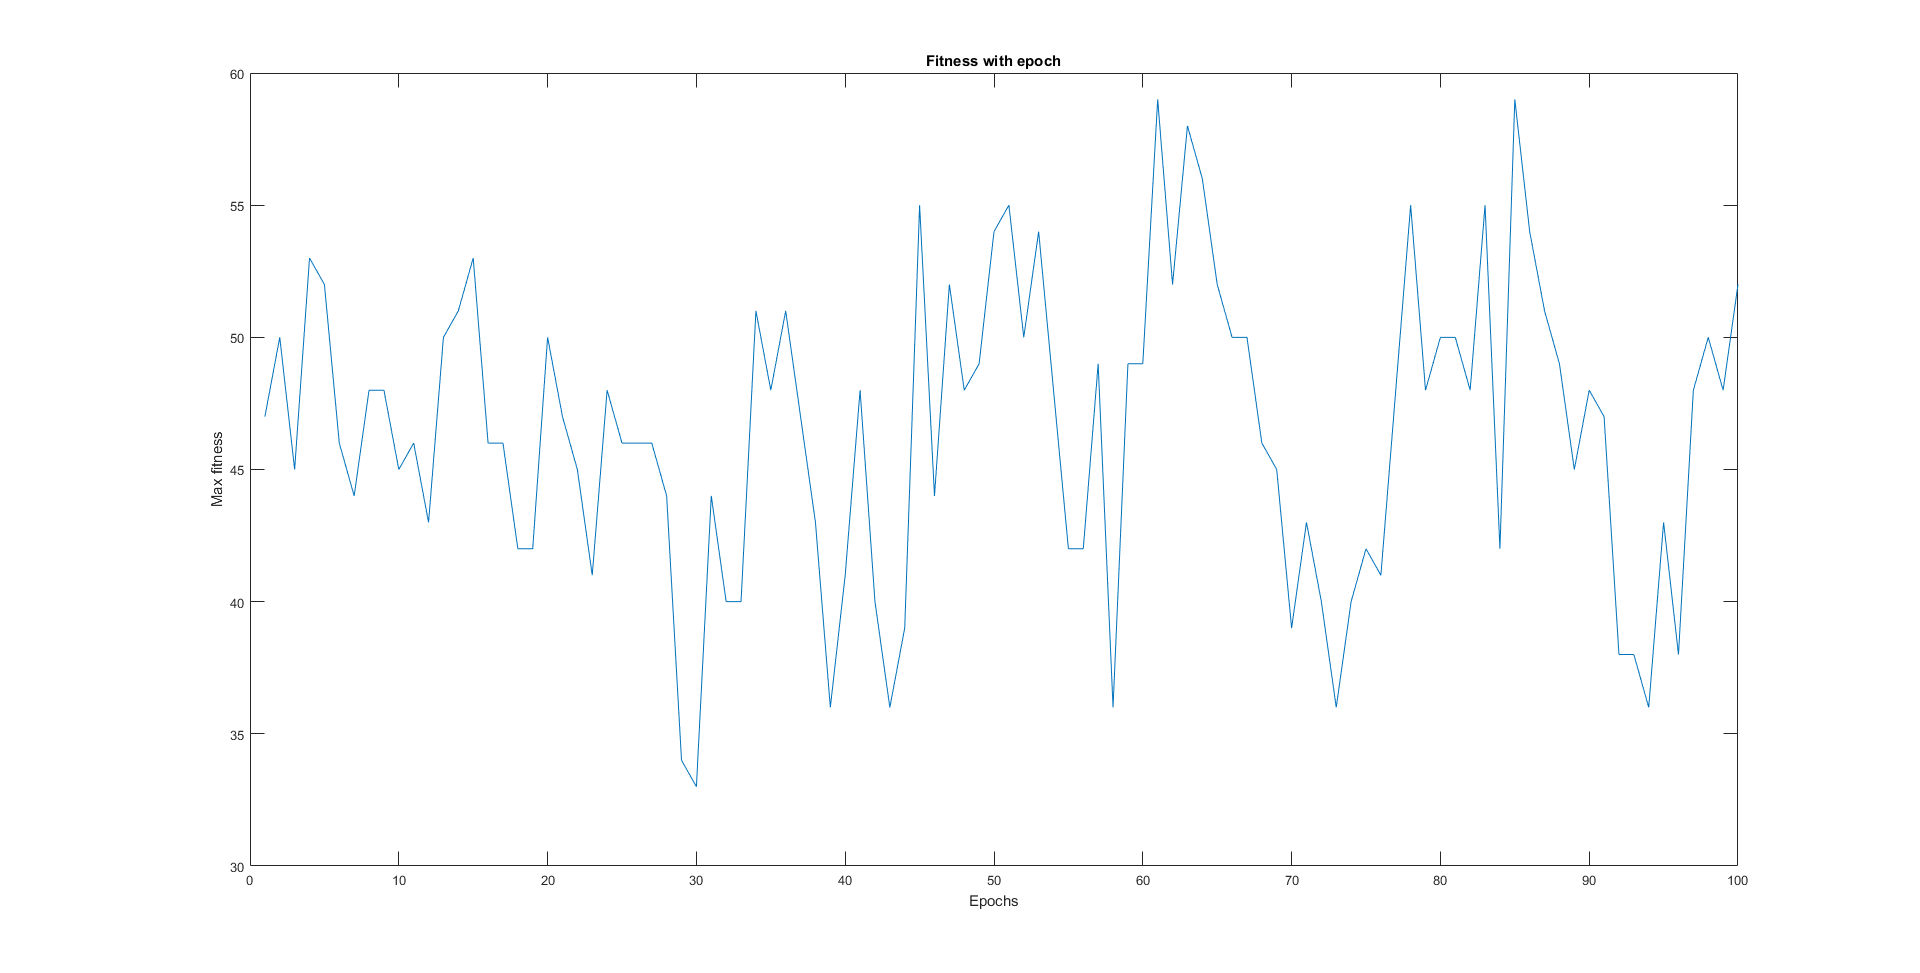
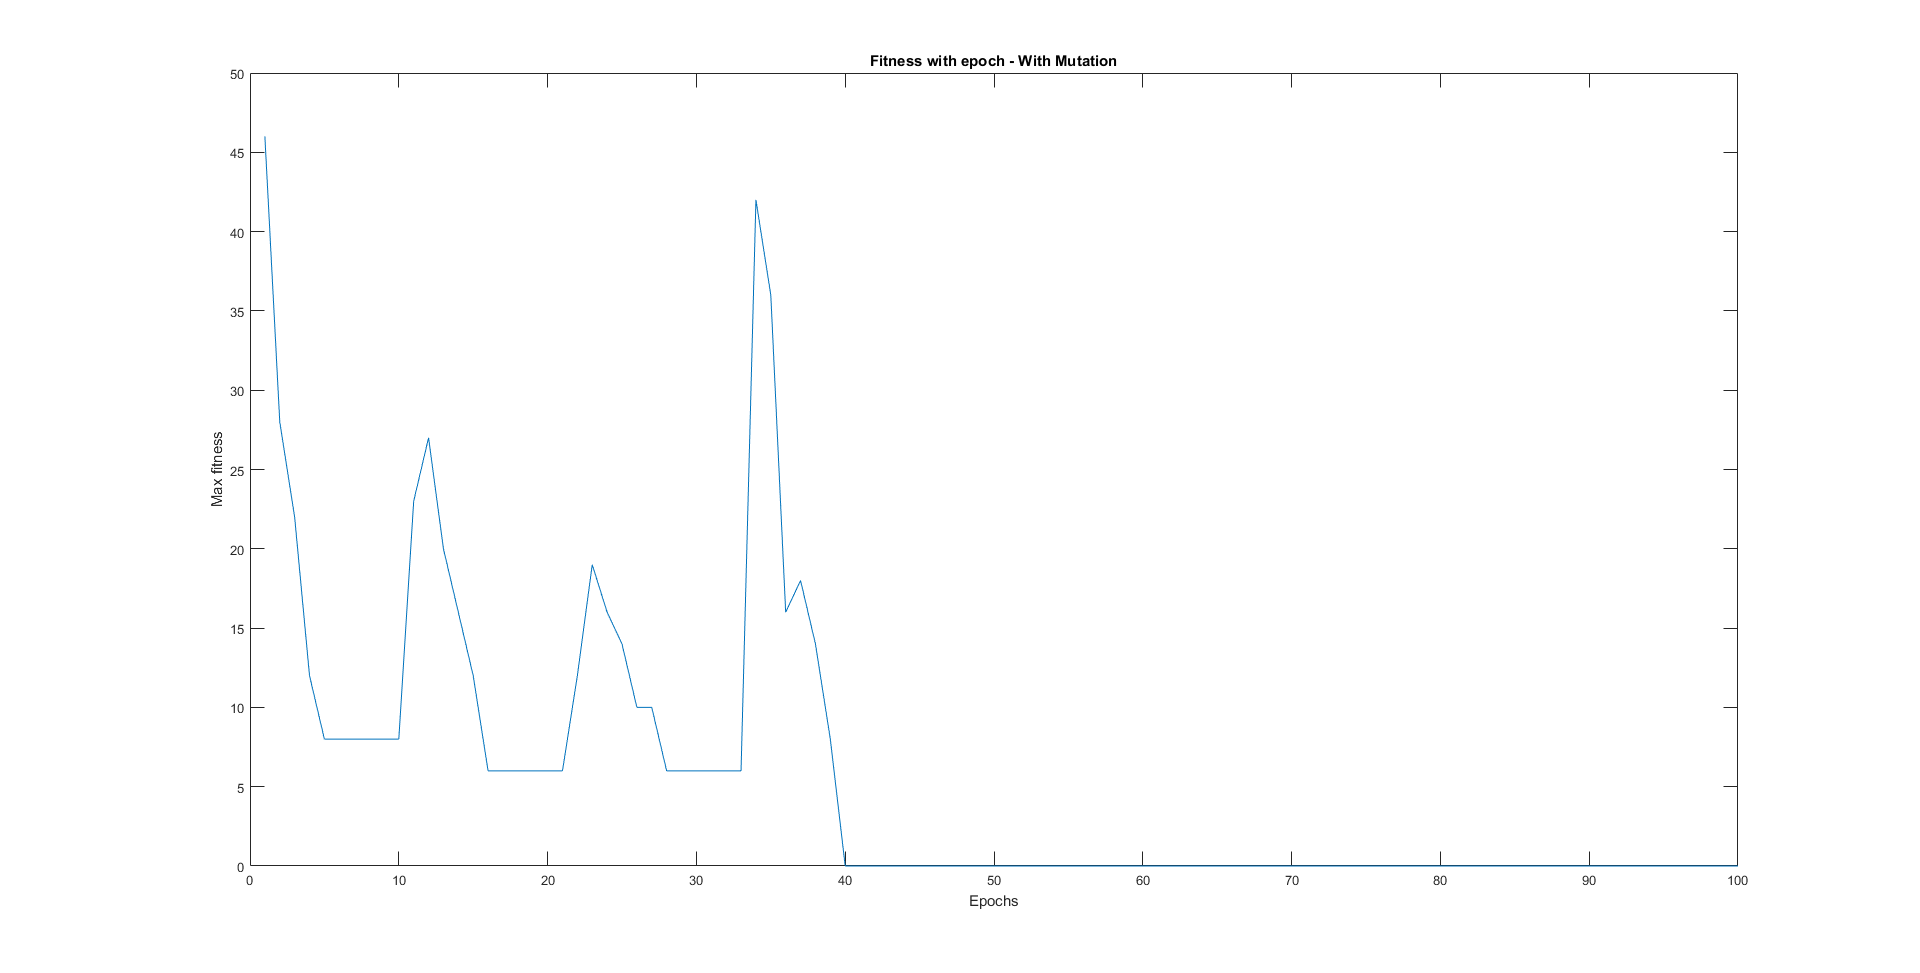
Fixed mutation code, 9X9 sudokus are now being solved

diff --git a/Code_v2/main.m b/Code_v2/main.m
@@ -60,10 +60,21 @@ for i=1:num_epochs
         end
     end
     
+  if(min(net_fitness)<=Threshold)
+   disp('Sudoku Solved !!')
+   solution = sudoku_pop{find(net_fitness==min(net_fitness),1)};
+   solvedSudoku = unwrapSudoku(solution);
+   inputSudoku = unwrapSudoku(sudoku);
+   disp('Input Sudoku :')
+   disp(inputSudoku)
+   disp('Solution :')
+   disp(solvedSudoku)
+   break; 
+  end  
     
 end
 
 % Plot max fitness per epoch
-plot(1:num_epochs, fit_max); xlabel('Epochs'); ylabel('Max fitness'); title('Fitness with epoch');
+plot(1:num_epochs, fit_max); xlabel('Epochs'); ylabel('Max fitness'); title('Fitness with epoch - With Mutation');
 
 % sudoku_out = unwrapSudoku(sudoku);

diff --git a/Code_v2/wrapSudoku.m b/Code_v2/wrapSudoku.m
@@ -1,0 +1,13 @@
+function [ sudoku ] = unwrapSudoku( sudoku_grid )
+%UNTITLED5 Summary of this function goes here
+%   Detailed explanation goes here
+
+sudoku = zeros(9);
+for i=1:9
+    su_grid = sudoku_grid(9*(i-1)+1:9*i);
+    su_grid = transpose(reshape(su_grid, 3, 3));
+    sudoku(floor((i-1)/3)*3+1 : ceil(i/3)*3, mod(i-1, 3)*3+1 : (mod(i-1, 3)+1)*3) = su_grid;
+end
+
+end
+

diff --git a/Code_v2/mutation.m b/Code_v2/mutation.m
@@ -8,7 +8,7 @@ n = sqrt(size(population{1},2));
 m = n^2;
 for i = 1:size(population,2)
 prob_mat{i} = logsig(fitness_mat{i});
-prob_mat{i}(prob_mat{i} == 0.5) = 0.2;
+prob_mat{i}(prob_mat{i} == 0.5) = 0;
 mutation_mat{i} = zeros(size(prob_mat{i}));
 
 for i2 = 1 :size(mutation_mat{i},1)

diff --git a/main.m b/main.m
@@ -76,6 +76,7 @@ plot(1:Epochs,fitnessVals); hold on
 
 disp('Final Solution: ');
 solution = population{find(popFitness==min(popFitness),1)};
+[ solved_sudoku ] = wrapSudoku( sudoku_grid );
 disp(solution);
 end
 
